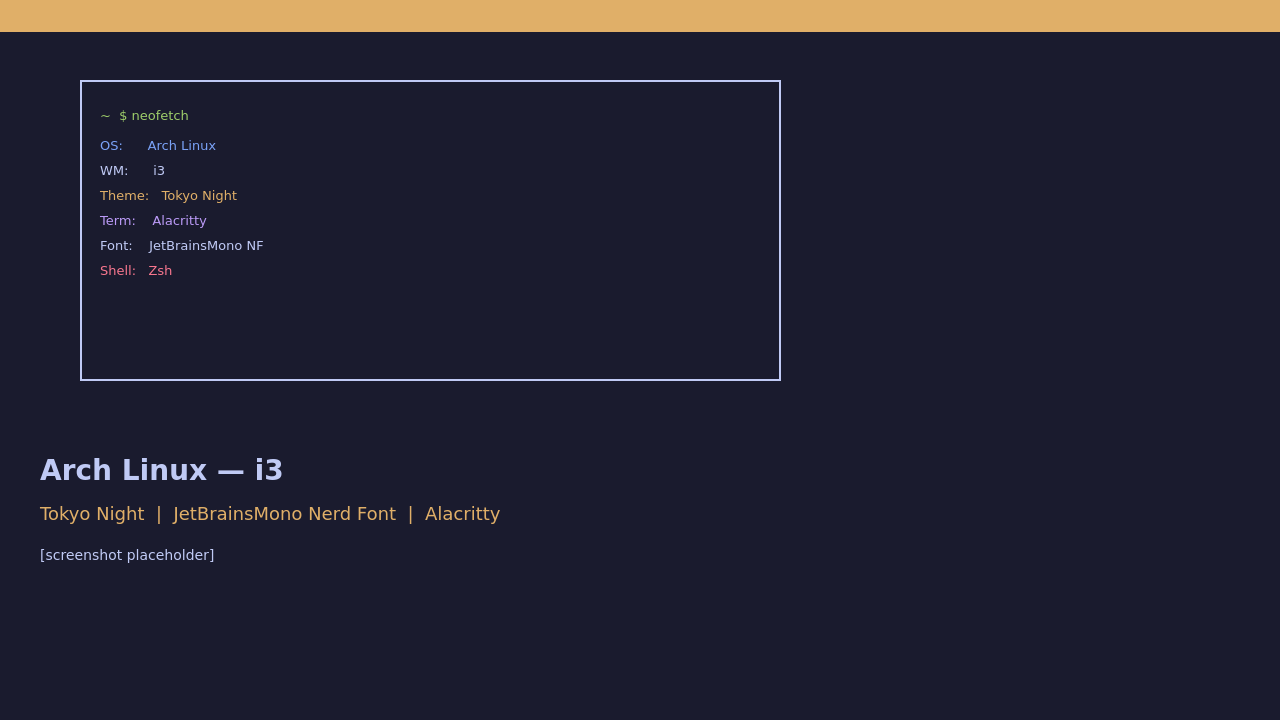
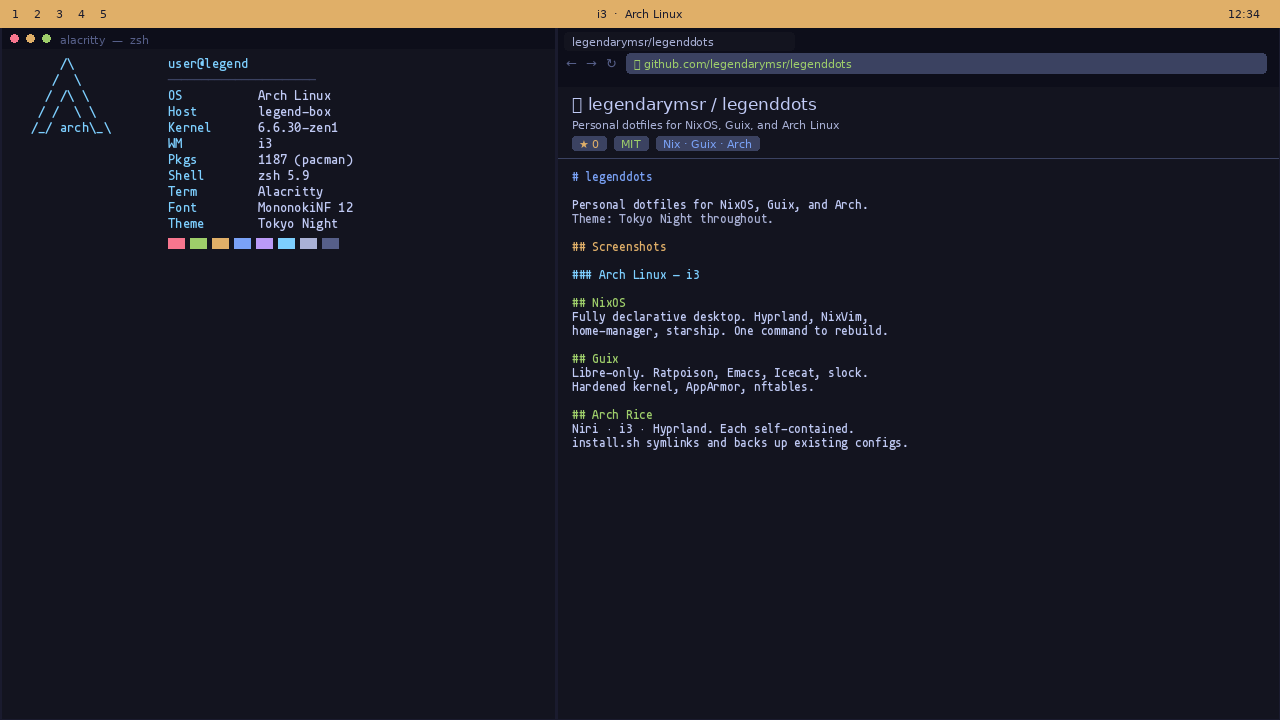
Regenerate mockup screenshots with tiled fastfetch + browser layout

diff --git a/screenshots/gen.py b/screenshots/gen.py
@@ -1,0 +1,255 @@
+#!/usr/bin/env python3
+from PIL import Image, ImageDraw, ImageFont
+import os
+
+# ── palette (Tokyo Night) ──────────────────────────────────────────────────
+BG      = "#1a1b2e"
+PANEL   = "#13141f"
+CHROME  = "#0d0e1a"
+BORDER  = "#3b4261"
+FG      = "#c0caf5"
+FG2     = "#a9b1d6"
+DIM     = "#565f89"
+ACCENT  = "#7aa2f7"
+GREEN   = "#9ece6a"
+RED     = "#f7768e"
+YELLOW  = "#e0af68"
+PURPLE  = "#bb9af7"
+CYAN    = "#7dcfff"
+ORANGE  = "#ff9e64"
+
+MONO    = "/data/data/com.termux/files/home/.fonts/MononokiNerdFont-Bold.ttf"
+MONO_R  = "/data/data/com.termux/files/home/.fonts/GoMonoNerdFont-Regular.ttf" \
+          if os.path.exists("/data/data/com.termux/files/home/.fonts/GoMonoNerdFont-Regular.ttf") \
+          else MONO
+SANS    = "/data/data/com.termux/files/usr/share/fonts/TTF/DejaVuSans.ttf" \
+          if os.path.exists("/data/data/com.termux/files/usr/share/fonts/TTF/DejaVuSans.ttf") \
+          else MONO
+
+def font(path, size):
+    try:
+        return ImageFont.truetype(path, size)
+    except Exception:
+        return ImageFont.load_default()
+
+def hex2rgb(h):
+    h = h.lstrip("#")
+    return tuple(int(h[i:i+2], 16) for i in (0, 2, 4))
+
+W, H = 1280, 720
+BAR   = 28
+SPLIT = 556   # terminal / browser divider x
+
+# ── ASCII logos ────────────────────────────────────────────────────────────
+LOGOS = {
+    "NixOS": {
+        "color": ACCENT,
+        "lines": [
+            "  *  ",
+            " /|\\ ",
+            "* | *",
+            " \\|/ ",
+            "  *  ",
+            "     ",
+        ],
+        "art": [
+            "  \\\\  //  ",
+            "  _\\\\//_  ",
+            " (_    _) ",
+            "  _//\\\\_ ",
+            "  //  \\\\  ",
+            "          ",
+        ],
+    },
+    "GNU Guix": {
+        "color": GREEN,
+        "art": [
+            " _________ ",
+            "|  ______  |",
+            "| | Guix | |",
+            "| |______| |",
+            "|___________|",
+            "             ",
+        ],
+    },
+    "Arch Linux": {
+        "color": CYAN,
+        "art": [
+            "      /\\      ",
+            "     /  \\     ",
+            "    / /\\ \\    ",
+            "   / /  \\ \\   ",
+            "  /_/ arch\\_\\ ",
+            "              ",
+        ],
+    },
+}
+
+COLOR_BLOCKS = [RED, GREEN, YELLOW, ACCENT, PURPLE, CYAN, FG2, DIM]
+
+def draw_mockup(path, os_name, wm, bar_color, pkgs, kernel="6.6.30-zen1"):
+    img  = Image.new("RGB", (W, H), hex2rgb(BG))
+    d    = ImageDraw.Draw(img)
+
+    f_mono_sm = font(MONO, 12)
+    f_mono_md = font(MONO, 13)
+    f_mono_lg = font(MONO, 14)
+    f_sans_sm = font(SANS, 11)
+    f_sans_md = font(SANS, 13)
+    f_sans_lg = font(SANS, 15)
+    f_sans_xl = font(SANS, 17)
+
+    # ── top bar ──────────────────────────────────────────────────────────
+    d.rectangle([0, 0, W-1, BAR-1], fill=hex2rgb(bar_color))
+    # workspace dots
+    for i, num in enumerate("1 2 3 4 5".split()):
+        d.text((12 + i*22, 7), num, font=f_sans_sm, fill=hex2rgb(BG))
+    # wm label centered
+    label = f"{wm}  ·  {os_name}"
+    bb = d.textbbox((0,0), label, font=f_sans_sm)
+    lw = bb[2] - bb[0]
+    d.text(((W - lw)//2, 7), label, font=f_sans_sm, fill=hex2rgb(BG))
+    # clock
+    d.text((W-52, 7), "12:34", font=f_sans_sm, fill=hex2rgb(BG))
+
+    # ── left panel: terminal ──────────────────────────────────────────────
+    d.rectangle([2, BAR, SPLIT-2, H-2], fill=hex2rgb(PANEL))
+    # title bar
+    d.rectangle([2, BAR, SPLIT-2, BAR+20], fill=hex2rgb(CHROME))
+    for ci, col in enumerate([RED, YELLOW, GREEN]):
+        cx = 14 + ci*16
+        d.ellipse([cx-4, BAR+6, cx+4, BAR+14], fill=hex2rgb(col))
+    d.text((60, BAR+5), "alacritty  —  zsh", font=f_sans_sm, fill=hex2rgb(DIM))
+
+    # fastfetch logo
+    logo = LOGOS.get(os_name, LOGOS["Arch Linux"])
+    logo_color = hex2rgb(logo["color"])
+    art = logo.get("art", logo.get("lines", []))
+    lx, ly = 16, BAR + 28
+    for line in art:
+        d.text((lx, ly), line, font=f_mono_md, fill=logo_color)
+        ly += 16
+
+    # fastfetch info (right of logo)
+    ix = 168
+    iy = BAR + 28
+    line_h = 16
+
+    def info_line(key, val, key_col=CYAN, val_col=FG):
+        nonlocal iy
+        d.text((ix, iy),           key,  font=f_mono_md, fill=hex2rgb(key_col))
+        d.text((ix + 90, iy),      val,  font=f_mono_md, fill=hex2rgb(val_col))
+        iy += line_h
+
+    user_label = f"user@legend"
+    d.text((ix, iy), user_label, font=f_mono_md, fill=logo_color)
+    iy += line_h
+    d.text((ix, iy), "─" * 22, font=f_mono_sm, fill=hex2rgb(BORDER))
+    iy += line_h
+
+    info_line("OS",       os_name)
+    info_line("Host",     "legend-box")
+    info_line("Kernel",   kernel)
+    info_line("WM",       wm)
+    info_line("Pkgs",     pkgs)
+    info_line("Shell",    "zsh 5.9")
+    info_line("Term",     "Alacritty")
+    info_line("Font",     "MononokiNF 12")
+    info_line("Theme",    "Tokyo Night")
+    iy += 6
+    # color palette blocks
+    for i, col in enumerate(COLOR_BLOCKS):
+        bx = ix + i*22
+        d.rectangle([bx, iy, bx+16, iy+10], fill=hex2rgb(col))
+
+    # ── right panel: browser ──────────────────────────────────────────────
+    bx0 = SPLIT + 2
+    d.rectangle([bx0, BAR, W-2, H-2], fill=hex2rgb(PANEL))
+
+    # browser chrome
+    d.rectangle([bx0, BAR, W-2, BAR+58], fill=hex2rgb(CHROME))
+
+    # tab
+    tab_w = 230
+    d.rounded_rectangle([bx0+6, BAR+4, bx0+6+tab_w, BAR+22], radius=4, fill=hex2rgb(PANEL))
+    d.text((bx0+14, BAR+7), "legendarymsr/legenddots", font=f_sans_sm, fill=hex2rgb(FG2))
+
+    # nav buttons (back/fwd/refresh)
+    for bni, sym in enumerate(["←", "→", "↻"]):
+        d.text((bx0+8 + bni*20, BAR+27), sym, font=f_sans_md, fill=hex2rgb(DIM))
+
+    # url bar
+    url_x0 = bx0 + 68
+    url_x1 = W - 14
+    d.rounded_rectangle([url_x0, BAR+25, url_x1, BAR+45], radius=4, fill=hex2rgb(BORDER))
+    d.text((url_x0+8, BAR+29), "🔒 github.com/legendarymsr/legenddots", font=f_sans_sm, fill=hex2rgb(GREEN))
+
+    # page body
+    py = BAR + 66
+    px = bx0 + 14
+
+    # repo header
+    d.text((px, py), "📦 legendarymsr / legenddots", font=f_sans_xl, fill=hex2rgb(FG))
+    py += 24
+    d.text((px, py), "Personal dotfiles for NixOS, Guix, and Arch Linux", font=f_sans_sm, fill=hex2rgb(FG2))
+    py += 18
+    # badges
+    for badge_txt, badge_col in [("★ 0", YELLOW), ("MIT", GREEN), ("Nix · Guix · Arch", ACCENT)]:
+        bb2 = d.textbbox((0,0), badge_txt, font=f_sans_sm)
+        bw = bb2[2] - bb2[0] + 14
+        d.rounded_rectangle([px, py, px+bw, py+14], radius=3, fill=hex2rgb(BORDER))
+        d.text((px+7, py+1), badge_txt, font=f_sans_sm, fill=hex2rgb(badge_col))
+        px += bw + 8
+    px = bx0 + 14
+    py += 22
+
+    # divider
+    d.line([bx0, py, W-2, py], fill=hex2rgb(BORDER))
+    py += 12
+
+    # readme content
+    readme_lines = [
+        (ACCENT,  "# legenddots"),
+        (FG2,     ""),
+        (FG,      "Personal dotfiles for NixOS, Guix, and Arch."),
+        (FG2,     "Theme: Tokyo Night throughout."),
+        (FG2,     ""),
+        (YELLOW,  "## Screenshots"),
+        (FG2,     ""),
+        (CYAN,    f"### {os_name} — {wm}"),
+        (FG2,     ""),
+        (GREEN,   "## NixOS"),
+        (FG,      "Fully declarative desktop. Hyprland, NixVim,"),
+        (FG,      "home-manager, starship. One command to rebuild."),
+        (FG2,     ""),
+        (GREEN,   "## Guix"),
+        (FG,      "Libre-only. Ratpoison, Emacs, Icecat, slock."),
+        (FG,      "Hardened kernel, AppArmor, nftables."),
+        (FG2,     ""),
+        (GREEN,   "## Arch Rice"),
+        (FG,      "Niri · i3 · Hyprland. Each self-contained."),
+        (FG,      "install.sh symlinks and backs up existing configs."),
+    ]
+    for col, line in readme_lines:
+        if py > H - 20:
+            break
+        d.text((px, py), line, font=f_mono_sm, fill=hex2rgb(col))
+        py += 14
+
+    img.save(path)
+    print(f"  saved {path}")
+
+
+RICES = [
+    ("nixos-hyprland.png",  "NixOS",      "Hyprland",  ACCENT,  "1842 (nix)"),
+    ("guix-ratpoison.png",  "GNU Guix",   "Ratpoison", GREEN,   "312 (guix)"),
+    ("arch-niri.png",       "Arch Linux", "Niri",      PURPLE,  "1203 (pacman)"),
+    ("arch-i3.png",         "Arch Linux", "i3",        YELLOW,  "1187 (pacman)"),
+    ("arch-hyprland.png",   "Arch Linux", "Hyprland",  RED,     "1241 (pacman)"),
+]
+
+out = os.path.dirname(os.path.abspath(__file__))
+for fname, os_name, wm, bar_col, pkgs in RICES:
+    draw_mockup(os.path.join(out, fname), os_name, wm, bar_col, pkgs)
+
+print("done.")
